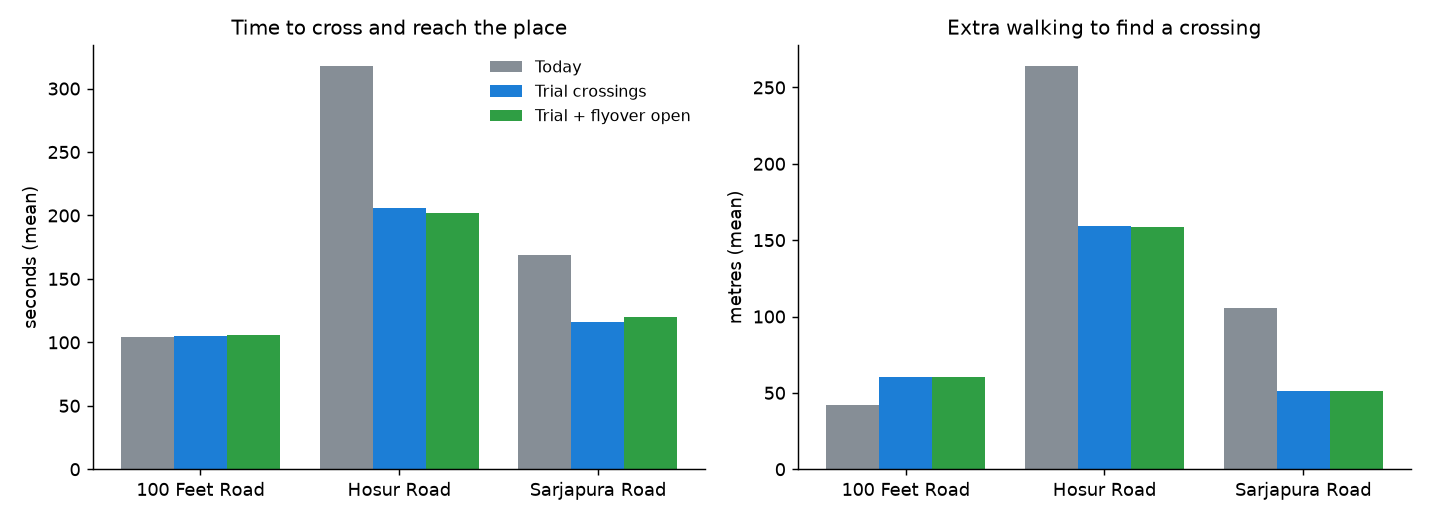
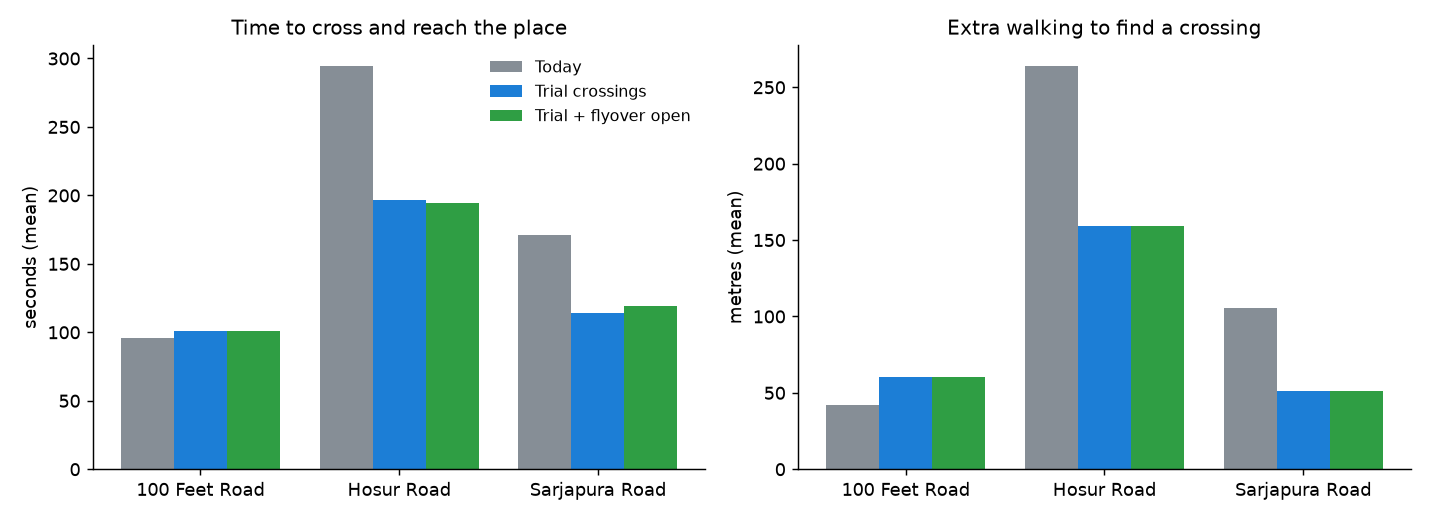
Make signalised junctions a setting; no signal at B per the tender route map
Baseline re-run. The gridlock remains: junction C passes about 325
vehicles an hour northbound on Hosur Road, and without a signal at B
the turn from 100 Feet Road cannot merge into Hosur Road southbound.
Pedestrian results are unchanged.

diff --git a/scripts/build_net.py b/scripts/build_net.py
@@ -112,16 +112,21 @@ run([BIN('netconvert'), '-c', P('net', 'build.netccfg'), '--osm-files', P('net',
 # (nodes pass 1 already signalised are left alone; re-setting them crashes netconvert)
 RADIUS = {'A': 40, 'B': 40, 'C': 48}
 p1 = read_net(P('net', 'pass1.net.xml'))
-tls_nodes = []
+SIGNALISED = C.get('signalised_junctions', list(JUNCTIONS))       # junctions left out get no signal, even if OSM maps one
+tls_nodes, unset = [], []
 for jid, ll in JUNCTIONS.items():
     x, y = p1.convertLonLat2XY(*ll)
     for n in p1.getNodes():
         road = [e for e in n.getIncoming() + n.getOutgoing() if e.allows('passenger')]
         main = any(e.getPriority() >= 11 for e in road)          # touches a primary/trunk road
-        if (len(road) >= 3 and main and n.getType() != 'traffic_light'
-                and math.dist(n.getCoord(), (x, y)) <= RADIUS[jid]): tls_nodes.append(n.getID())
+        near = math.dist(n.getCoord(), (x, y)) <= RADIUS[jid]
+        if jid not in SIGNALISED:
+            if near and n.getType().startswith('traffic_light'): unset.append(n.getID())
+        elif len(road) >= 3 and main and n.getType() != 'traffic_light' and near: tls_nodes.append(n.getID())
+patched.append(f"signals at junctions {', '.join(SIGNALISED)}" + (f"; removed at {len(unset)} node(s) of the others" if unset else ''))
 run([BIN('netconvert'), '-c', P('net', 'tls.netccfg'), '--sumo-net-file', P('net', 'pass1.net.xml'),
-     '--tls.set', ','.join(tls_nodes), '--output-file', P('net', 'base.net.xml')] + tls_opts,
+     '--output-file', P('net', 'base.net.xml')] + (['--tls.set', ','.join(tls_nodes)] if tls_nodes else [])
+    + (['--tls.unset', ','.join(unset)] if unset else []) + tls_opts,
     log=P('out', 'checks', 'netconvert_pass2.log'))
 
 # ---- checks --------------------------------------------------------------------------------

diff --git a/scripts/metrics.py b/scripts/metrics.py
@@ -9,7 +9,7 @@ Writes out/metrics/*.csv and out/metrics/metrics.json:
   buses.csv            bus travel time and delay
 """
 import collections, csv, json, math, os, statistics as stt, xml.etree.ElementTree as ET
-from common import P, SCENARIOS, SIDES, SIDE_NAME, cfg, hhmm, read_net, carriageways, centrelines, LL2M
+from common import P, SCENARIOS, SIDES, SIDE_NAME, JUNCTIONS, cfg, hhmm, read_net, carriageways, centrelines, LL2M
 import make_demand as MD
 
 C = cfg(); T = C['time']
@@ -127,8 +127,16 @@ for scn in SCENARIOS:
     tl_nodes = {}
     for label, tid in sig.items():
         for c in net.getTLS(tid).getConnections(): tl_nodes[c[0].getEdge().getToNode().getID()] = label
+    # a junction without a signal (config signals.signalised_junctions) is still A, B or C: label it by position
+    jxy = {j: net.convertLonLat2XY(*ll) for j, ll in JUNCTIONS.items()}
+    def label_of(node):
+        if node in tl_nodes: return tl_nodes[node]
+        try: xy = net.getNode(node).getCoord()
+        except Exception: return 'other junctions'
+        j = min(jxy, key=lambda k: math.dist(jxy[k], xy))
+        return j if math.dist(jxy[j], xy) < 60 else 'other junctions'
     agg = collections.Counter()
-    for node, n in by_node.items(): agg[tl_nodes.get(node, 'other junctions')] += n
+    for node, n in by_node.items(): agg[label_of(node)] += n
     # foot over bridges: people entering a bridge edge (OSM footway bridges; ids of the joining footways start '-8')
     on_edge = collections.Counter()
     for iv in ET.parse(os.path.join(d, 'edgedata_people.xml')).getroot().findall('interval'):

diff --git a/report/REPORT.md b/report/REPORT.md
@@ -16,9 +16,9 @@ volumes, pedestrian volumes and signal timings are **assumptions** until the sit
 
 | Scenario | People crossing (trips) | Crossing trip time, s (Δ vs today) | Extra walk, m (Δ) | Time lost walking, s (Δ) | Vehicle delay per trip incl. waiting to enter, s (Δ) | Bus delay per trip, s (Δ) | Vehicles never let in | Teleports | Collisions |
 |---|---|---|---|---|---|---|---|---|---|
-| Today | 2610 | 205.3 (+0.0) | 145.9 (+0.0) | 72.5 (+0.0) | 506.3 (+0.0) | 536.4 (+0.0) | 4160 | 233 | 8 |
-| Trial crossings | 2609 | 146.5 (-58.8) | 95.2 (-50.7) | 51.0 (-21.5) | 683.5 (+177.2) | 1008.0 (+471.6) | 2343 | 134 | 25 |
-| Trial + flyover open | 2609 | 146.8 (-58.5) | 95.0 (-50.9) | 51.8 (-20.7) | 375.3 (-131.0) | 564.6 (+28.2) | 353 | 74 | 14 |
+| Today | 2610 | 194.4 (+0.0) | 145.8 (+0.0) | 61.6 (+0.0) | 410.8 (+0.0) | 666.4 (+0.0) | 4224 | 367 | 13 |
+| Trial crossings | 2609 | 141.6 (-52.8) | 95.3 (-50.5) | 45.9 (-15.7) | 562.4 (+151.6) | 629.4 (-37.0) | 3312 | 257 | 18 |
+| Trial + flyover open | 2609 | 142.0 (-52.4) | 95.3 (-50.5) | 46.7 (-14.9) | 362.5 (-48.3) | 481.0 (-185.4) | 1309 | 117 | 21 |
 
 *Vehicles never let in* = demand that could not enter the network before the simulation ended — a sign the assumed volumes exceed what the entries and signals can carry (Madiwala is congested at peak, but the volumes are uncalibrated).
 
@@ -27,120 +27,117 @@ volumes, pedestrian volumes and signal timings are **assumptions** until the sit
 ### People crossing each road
 | Scenario | Road | Trips | Trip time mean s | p85 s | Time lost s | Walked m | Straight-line m | Extra m | Detour factor (median) |
 |---|---|---|---|---|---|---|---|---|---|
-| Today | 100 Feet Road | 825 | 103.9 | 164.0 | 49.0 | 75.5 | 33.5 | 42.0 | 1.49 |
-| Today | Hosur Road | 994 | 318.1 | 533.5 | 96.0 | 303.9 | 39.6 | 264.3 | 5.81 |
-| Today | Sarjapura Road | 791 | 169.2 | 277.5 | 67.3 | 140.0 | 34.6 | 105.4 | 2.96 |
-| Trial crossings | 100 Feet Road | 824 | 104.7 | 137.5 | 36.2 | 93.9 | 33.5 | 60.4 | 1.41 |
-| Trial crossings | Hosur Road | 994 | 205.8 | 436.0 | 61.4 | 198.7 | 39.6 | 159.1 | 3.23 |
-| Trial crossings | Sarjapura Road | 791 | 115.7 | 177.5 | 53.1 | 85.7 | 34.6 | 51.1 | 2.35 |
-| Trial + flyover open | 100 Feet Road | 824 | 105.5 | 138.5 | 37.5 | 93.9 | 33.5 | 60.4 | 1.41 |
-| Trial + flyover open | Hosur Road | 994 | 202.2 | 442.5 | 58.5 | 198.3 | 39.6 | 158.7 | 3.21 |
-| Trial + flyover open | Sarjapura Road | 791 | 120.3 | 184.5 | 58.1 | 85.6 | 34.6 | 51.0 | 2.36 |
+| Today | 100 Feet Road | 825 | 95.7 | 140.5 | 40.8 | 75.4 | 33.5 | 42.0 | 1.49 |
+| Today | Hosur Road | 994 | 294.8 | 515.5 | 72.8 | 303.8 | 39.6 | 264.2 | 5.81 |
+| Today | Sarjapura Road | 791 | 171.3 | 281.5 | 69.3 | 140.1 | 34.6 | 105.5 | 2.96 |
+| Trial crossings | 100 Feet Road | 824 | 101.2 | 133.5 | 32.6 | 94.1 | 33.5 | 60.6 | 1.42 |
+| Trial crossings | Hosur Road | 994 | 197.0 | 440.5 | 52.5 | 198.8 | 39.6 | 159.2 | 3.23 |
+| Trial crossings | Sarjapura Road | 791 | 113.9 | 174.5 | 51.4 | 85.6 | 34.6 | 51.0 | 2.35 |
+| Trial + flyover open | 100 Feet Road | 824 | 100.6 | 133.0 | 32.6 | 94.0 | 33.5 | 60.5 | 1.41 |
+| Trial + flyover open | Hosur Road | 994 | 194.6 | 441.5 | 50.5 | 198.9 | 39.6 | 159.3 | 3.22 |
+| Trial + flyover open | Sarjapura Road | 791 | 118.9 | 182.0 | 56.7 | 85.7 | 34.6 | 51.1 | 2.35 |
 
 ### Vehicles along each loop road
 ![vehicles](vehicles.png)
 
 | Scenario | Road | Direction | Length m | Travel time s | Free-flow s | Delay s | Avg speed km/h | Vehicles/h (max edge) |
 |---|---|---|---|---|---|---|---|---|
-| Today | 100 Feet Road | A>B | 478 | 2576.9 | 37.4 | 2539.5 | 0.7 | 337 |
-| Today | 100 Feet Road | B>A | 474 | 105.3 | 56.9 | 48.4 | 16.2 | 565 |
-| Today | Hosur Road | B>C | 830 | 5507.9 | 65.2 | 5442.7 | 0.5 | 348 |
-| Today | Hosur Road | C>B | 723 | 137.3 | 48.8 | 88.4 | 19.0 | 2268 |
-| Today | Sarjapura Road | C>A | 750 | 141.2 | 51.3 | 89.9 | 19.1 | 2268 |
-| Today | Sarjapura Road | A>C | 922 | 162.2 | 66.4 | 95.8 | 20.5 | 1538 |
-| Trial crossings | 100 Feet Road | A>B | 463 | 329.6 | 36.3 | 293.2 | 5.1 | 695 |
-| Trial crossings | 100 Feet Road | B>A | 460 | 144.9 | 55.2 | 89.7 | 11.4 | 831 |
-| Trial crossings | Hosur Road | B>C | 820 | 426.8 | 64.4 | 362.4 | 6.9 | 1876 |
-| Trial crossings | Hosur Road | C>B | 790 | 215.4 | 57.5 | 157.9 | 13.2 | 1960 |
-| Trial crossings | Sarjapura Road | C>A | 737 | 203.7 | 50.4 | 153.2 | 13.0 | 1960 |
-| Trial crossings | Sarjapura Road | A>C | 910 | 150.2 | 65.5 | 84.6 | 21.8 | 929 |
-| Trial + flyover open | 100 Feet Road | A>B | 463 | 196.3 | 36.3 | 160.0 | 8.5 | 693 |
-| Trial + flyover open | 100 Feet Road | B>A | 460 | 230.5 | 55.2 | 175.2 | 7.2 | 597 |
-| Trial + flyover open | Hosur Road | B>C | 820 | 454.7 | 64.4 | 390.3 | 6.5 | 1365 |
-| Trial + flyover open | Hosur Road | C>B | 790 | 174.5 | 57.5 | 117.0 | 16.3 | 2282 |
-| Trial + flyover open | Sarjapura Road | C>A | 737 | 203.5 | 50.4 | 153.1 | 13.0 | 2282 |
-| Trial + flyover open | Sarjapura Road | A>C | 910 | 199.9 | 65.5 | 134.4 | 16.4 | 964 |
+| Today | 100 Feet Road | A>B | 478 | 694.2 | 37.4 | 656.8 | 2.5 | 718 |
+| Today | 100 Feet Road | B>A | 474 | 492.2 | 56.9 | 435.3 | 3.5 | 262 |
+| Today | Hosur Road | B>C | 830 | 4497.8 | 65.2 | 4432.6 | 0.7 | 375 |
+| Today | Hosur Road | C>B | 723 | 88.9 | 48.8 | 40.0 | 29.3 | 2263 |
+| Today | Sarjapura Road | C>A | 750 | 148.6 | 51.3 | 97.3 | 18.2 | 2263 |
+| Today | Sarjapura Road | A>C | 922 | 170.8 | 66.4 | 104.4 | 19.4 | 1247 |
+| Trial crossings | 100 Feet Road | A>B | 463 | 395.1 | 36.3 | 358.8 | 4.2 | 758 |
+| Trial crossings | 100 Feet Road | B>A | 460 | 241.2 | 55.2 | 185.9 | 6.9 | 390 |
+| Trial crossings | Hosur Road | B>C | 820 | 1334.5 | 64.4 | 1270.1 | 2.2 | 552 |
+| Trial crossings | Hosur Road | C>B | 790 | 128.1 | 57.5 | 70.6 | 22.2 | 2269 |
+| Trial crossings | Sarjapura Road | C>A | 737 | 132.4 | 50.4 | 81.9 | 20.0 | 2269 |
+| Trial crossings | Sarjapura Road | A>C | 910 | 150.9 | 65.5 | 85.4 | 21.7 | 1070 |
+| Trial + flyover open | 100 Feet Road | A>B | 463 | 55.4 | 36.3 | 19.1 | 30.1 | 685 |
+| Trial + flyover open | 100 Feet Road | B>A | 460 | 249.2 | 55.2 | 194.0 | 6.6 | 406 |
+| Trial + flyover open | Hosur Road | B>C | 820 | 741.5 | 64.4 | 677.1 | 4.0 | 860 |
+| Trial + flyover open | Hosur Road | C>B | 790 | 195.4 | 57.5 | 137.9 | 14.6 | 2285 |
+| Trial + flyover open | Sarjapura Road | C>A | 737 | 212.7 | 50.4 | 162.3 | 12.5 | 2285 |
+| Trial + flyover open | Sarjapura Road | A>C | 910 | 201.4 | 65.5 | 135.9 | 16.3 | 1157 |
 
 ### Queues at signals
 ![queues](queues.png)
 
 | Scenario | Signal (A/B/C, X0-X7 = trial crossings) | Approach lanes | Mean queue, worst lane m | Max queue m |
 |---|---|---|---|---|
-| Today | A | 14 | 29.1 | 149.1 |
-| Today | B | 10 | 141.5 | 150.1 |
-| Today | C | 12 | 44.3 | 149.7 |
-| Trial crossings | A | 14 | 27.1 | 96.5 |
-| Trial crossings | B | 10 | 23.5 | 39.4 |
-| Trial crossings | C | 12 | 142.6 | 150.1 |
-| Trial crossings | X0 | 8 | 2.4 | 40.0 |
-| Trial crossings | X1 | 8 | 58.9 | 140.0 |
-| Trial crossings | X2 | 4 | 0.2 | 4.3 |
-| Trial crossings | X3 | 14 | 12.1 | 29.5 |
-| Trial crossings | X4 | 14 | 68.5 | 73.2 |
-| Trial crossings | X5 | 12 | 4.9 | 83.5 |
-| Trial crossings | X6 | 12 | 1.6 | 41.3 |
-| Trial crossings | X7 | 12 | 3.7 | 139.4 |
-| Trial + flyover open | A | 14 | 62.0 | 150.1 |
-| Trial + flyover open | B | 10 | 19.9 | 39.4 |
-| Trial + flyover open | C | 12 | 105.7 | 150.1 |
-| Trial + flyover open | X0 | 8 | 2.2 | 45.0 |
-| Trial + flyover open | X1 | 8 | 44.6 | 139.5 |
+| Today | A | 14 | 47.8 | 150.1 |
+| Today | C | 12 | 50.0 | 149.9 |
+| Trial crossings | A | 14 | 42.3 | 150.1 |
+| Trial crossings | C | 12 | 84.0 | 150.1 |
+| Trial crossings | X0 | 8 | 4.8 | 62.2 |
+| Trial crossings | X1 | 8 | 48.3 | 139.0 |
+| Trial crossings | X2 | 4 | 0.1 | 4.3 |
+| Trial crossings | X3 | 14 | 17.3 | 47.7 |
+| Trial crossings | X4 | 14 | 70.7 | 74.1 |
+| Trial crossings | X5 | 12 | 2.9 | 48.6 |
+| Trial crossings | X6 | 12 | 1.6 | 25.5 |
+| Trial crossings | X7 | 12 | 5.0 | 133.4 |
+| Trial + flyover open | A | 14 | 55.7 | 150.1 |
+| Trial + flyover open | C | 12 | 132.6 | 150.1 |
+| Trial + flyover open | X0 | 8 | 0.9 | 37.6 |
+| Trial + flyover open | X1 | 8 | 3.2 | 54.5 |
 | Trial + flyover open | X2 | 4 | 0.1 | 4.3 |
-| Trial + flyover open | X3 | 14 | 15.7 | 27.7 |
-| Trial + flyover open | X4 | 14 | 69.2 | 73.2 |
-| Trial + flyover open | X5 | 12 | 21.2 | 149.1 |
-| Trial + flyover open | X6 | 12 | 1.8 | 53.9 |
-| Trial + flyover open | X7 | 12 | 4.1 | 139.3 |
+| Trial + flyover open | X3 | 14 | 16.4 | 42.9 |
+| Trial + flyover open | X4 | 14 | 70.5 | 73.2 |
+| Trial + flyover open | X5 | 12 | 56.8 | 150.1 |
+| Trial + flyover open | X6 | 12 | 6.2 | 59.5 |
+| Trial + flyover open | X7 | 12 | 3.6 | 139.4 |
 
 Queue detectors cover the last 150 m of each approach lane, so 150 m means "the queue reaches past the detector".
 
 ### Crossing use (people per hour)
 | Scenario | Crossing | People/h |
 |---|---|---|
-| Today | A | 1110 |
-| Today | B | 1557 |
+| Today | A | 1117 |
+| Today | B | 1593 |
 | Today | C | 1160 |
-| Today | FOB BC@612 | 494 |
-| Today | FOB CA@415 | 146 |
-| Today | foot bridges off the loop | 5 |
-| Today | other junctions | 5946 |
-| Trial crossings | A | 1132 |
-| Trial crossings | B | 472 |
-| Trial crossings | C | 981 |
-| Trial crossings | FOB BC@612 | 204 |
+| Today | FOB BC@612 | 492 |
+| Today | FOB CA@415 | 145 |
+| Today | foot bridges off the loop | 4 |
+| Today | other junctions | 5804 |
+| Trial crossings | A | 1116 |
+| Trial crossings | B | 642 |
+| Trial crossings | C | 945 |
+| Trial crossings | FOB BC@612 | 219 |
 | Trial crossings | FOB CA@415 | 0 |
 | Trial crossings | X0 | 12 |
-| Trial crossings | X1 | 338 |
-| Trial crossings | X2 | 262 |
-| Trial crossings | X3 | 482 |
-| Trial crossings | X4 | 109 |
-| Trial crossings | X5 | 157 |
-| Trial crossings | X6 | 39 |
+| Trial crossings | X1 | 265 |
+| Trial crossings | X2 | 240 |
+| Trial crossings | X3 | 480 |
+| Trial crossings | X4 | 108 |
+| Trial crossings | X5 | 156 |
+| Trial crossings | X6 | 38 |
 | Trial crossings | X7 | 74 |
-| Trial crossings | foot bridges off the loop | 5 |
-| Trial crossings | other junctions | 5083 |
-| Trial + flyover open | A | 1122 |
-| Trial + flyover open | B | 482 |
-| Trial + flyover open | C | 990 |
-| Trial + flyover open | FOB BC@612 | 205 |
+| Trial crossings | foot bridges off the loop | 4 |
+| Trial crossings | other junctions | 5029 |
+| Trial + flyover open | A | 1134 |
+| Trial + flyover open | B | 630 |
+| Trial + flyover open | C | 972 |
+| Trial + flyover open | FOB BC@612 | 211 |
 | Trial + flyover open | FOB CA@415 | 0 |
 | Trial + flyover open | X0 | 12 |
-| Trial + flyover open | X1 | 344 |
-| Trial + flyover open | X2 | 246 |
+| Trial + flyover open | X1 | 270 |
+| Trial + flyover open | X2 | 244 |
 | Trial + flyover open | X3 | 481 |
 | Trial + flyover open | X4 | 109 |
-| Trial + flyover open | X5 | 156 |
+| Trial + flyover open | X5 | 158 |
 | Trial + flyover open | X6 | 38 |
-| Trial + flyover open | X7 | 74 |
+| Trial + flyover open | X7 | 75 |
 | Trial + flyover open | foot bridges off the loop | 5 |
-| Trial + flyover open | other junctions | 5090 |
+| Trial + flyover open | other junctions | 5018 |
 
 ### Buses
 | Scenario | Buses (finished) | Trip time in area s | Delay mean s | Delay p85 s |
 |---|---|---|---|---|
-| Today | 99 | 688.4 | 536.4 | 1163.2 |
-| Trial crossings | 154 | 1161.3 | 1008.0 | 1726.4 |
-| Trial + flyover open | 179 | 721.8 | 564.6 | 1242.3 |
+| Today | 92 | 835.9 | 666.4 | 2056.6 |
+| Trial crossings | 123 | 778.5 | 629.4 | 1432.6 |
+| Trial + flyover open | 143 | 635.5 | 481.0 | 686.0 |
 
 ### Map
 ![map](map.png)
